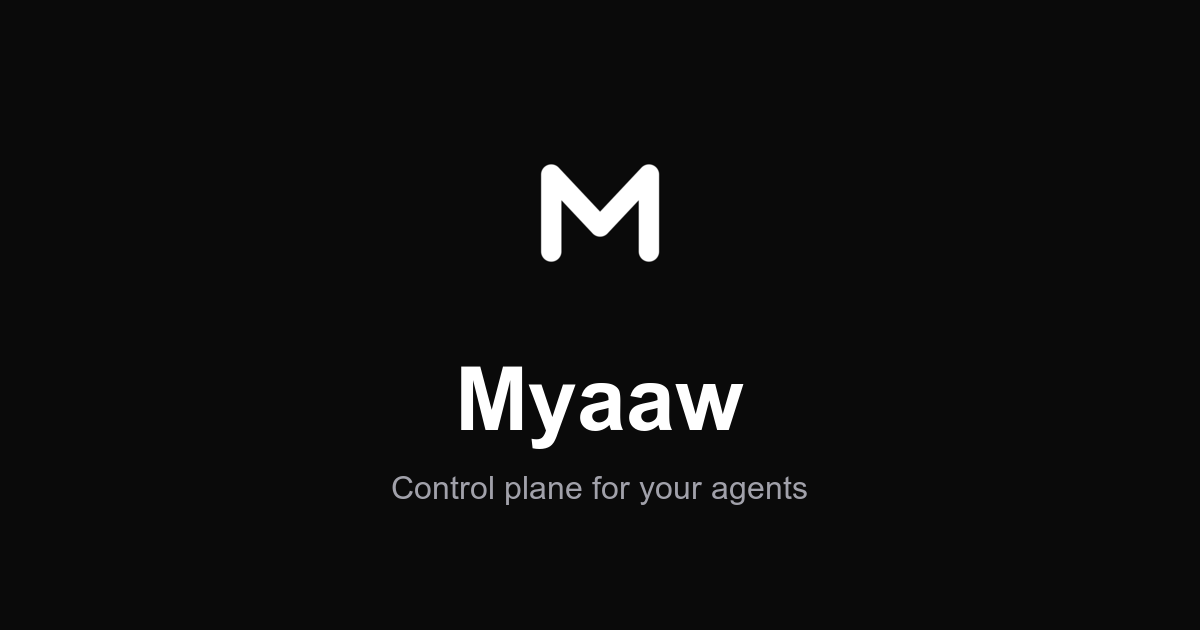
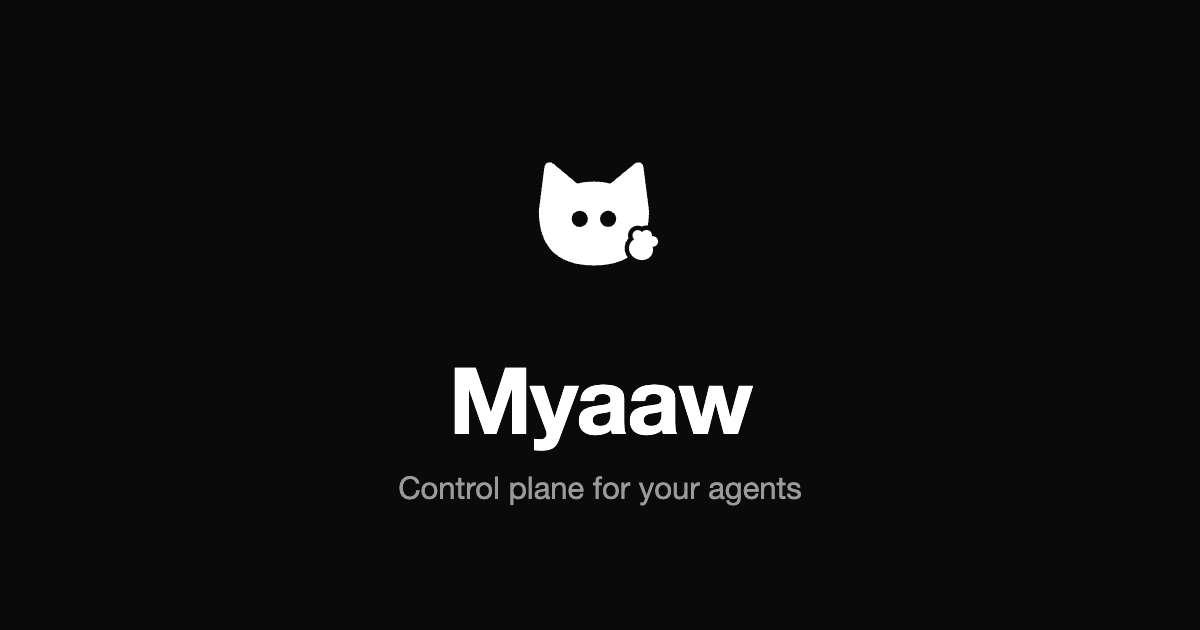
app: raise a paw beside the cat's face
The mark was a plain head, and a cat that is only a face has nothing to do
with its hands. It now carries a small paw at the right cheek, palm and
three toes, tilted outwards as if waving.

The paw is drawn in front of the head, and a mask cuts a ring of
background around the overlap, so it reads as raised in front of the face
instead of merging into the cheek. The viewBox grew to fit the pair, so
the head gives up a few percent of its size in the same box — the mark
still fills what the caller asks for. Each instance gets its own mask id,
because two logos can share a page.

The paw sits between the cheek and the chin at roughly a fifth of the head
width, which keeps the eyes readable at 18px in the sidebar. The favicon,
the apple touch icon, the PWA icons and the social card are regenerated
from the same geometry, and the card's type keeps its old bands (logo
162-266, title 367-451, subtitle 476-505) so only the glyph changed.

Changed region(s): [[0.37, 0.573, 0.6475, 0.7238], [0.3083, 0.754, 0.6783, 0.8143], [0.4317, 0.2413, 0.555, 0.4222]]

diff --git a/frontend/src/lib/components/common/Logo.svelte b/frontend/src/lib/components/common/Logo.svelte
@@ -2,18 +2,49 @@
 	import { cn } from '$lib/utils';
 
 	/**
-	 * The Myaaw mark: a cat head with pointed ears. Drawn as one even-odd path so
-	 * the eyes are holes, and cropped tight so the glyph fills whatever size the
-	 * caller gives it instead of floating in the drawing box.
+	 * The Myaaw mark: a cat head with pointed ears, and a paw raised beside its
+	 * right cheek. The head is one even-odd path so the eyes are holes, and the
+	 * paw is drawn in front of it with a ring of background carved around the
+	 * overlap, so it reads as raised instead of growing out of the cheek. The
+	 * viewBox is cropped to the pair, so the glyph fills whatever size the caller
+	 * gives it.
 	 */
 	let { class: className = '' }: { class?: string } = $props();
+
+	// One mask per instance: two logos on the same page must not share the id.
+	const instanceId = $props.id();
+	const maskId = `myaaw-paw-${instanceId}`;
 
 	const MARK =
 		'M240 430 L268 210 C272 190 296 184 312 198 L430 296 C452 290 482 286 512 286 C542 286 572 290 594 296 L712 198 C728 184 752 190 756 210 L784 430 C784 600 700 700 512 700 C324 700 240 600 240 430 Z ' +
 		'M402 470 a40 40 0 1 0 80 0 a40 40 0 1 0 -80 0 Z ' +
 		'M542 470 a40 40 0 1 0 80 0 a40 40 0 1 0 -80 0 Z';
+
+	// A palm and three toes, tilted outwards like a wave. It sits between the
+	// cheek and the chin, and the stroke-width on the masked copy is the gap the
+	// head gives up around it.
+	const PAW = 'translate(752 600) rotate(22) scale(2)';
+	const PAW_GAP = 22;
 </script>
 
-<svg viewBox="224 161 576 576" class={cn('fill-current', className)} aria-hidden="true">
-	<path fill-rule="evenodd" clip-rule="evenodd" d={MARK} />
+{#snippet paw()}
+	<ellipse cx="0" cy="10" rx="30" ry="27" />
+	<circle cx="-20" cy="-18" r="13" />
+	<circle cx="0" cy="-26" r="13.5" />
+	<circle cx="20" cy="-18" r="13" />
+{/snippet}
+
+<svg viewBox="226 130 632 632" class={cn('fill-current', className)} aria-hidden="true">
+	<defs>
+		<mask id={maskId} maskUnits="userSpaceOnUse" x="0" y="0" width="1100" height="1100">
+			<rect x="0" y="0" width="1100" height="1100" fill="#fff" />
+			<g transform={PAW} fill="#000" stroke="#000" stroke-width={PAW_GAP}>
+				{@render paw()}
+			</g>
+		</mask>
+	</defs>
+	<path fill-rule="evenodd" clip-rule="evenodd" d={MARK} mask="url(#{maskId})" />
+	<g transform={PAW}>
+		{@render paw()}
+	</g>
 </svg>
